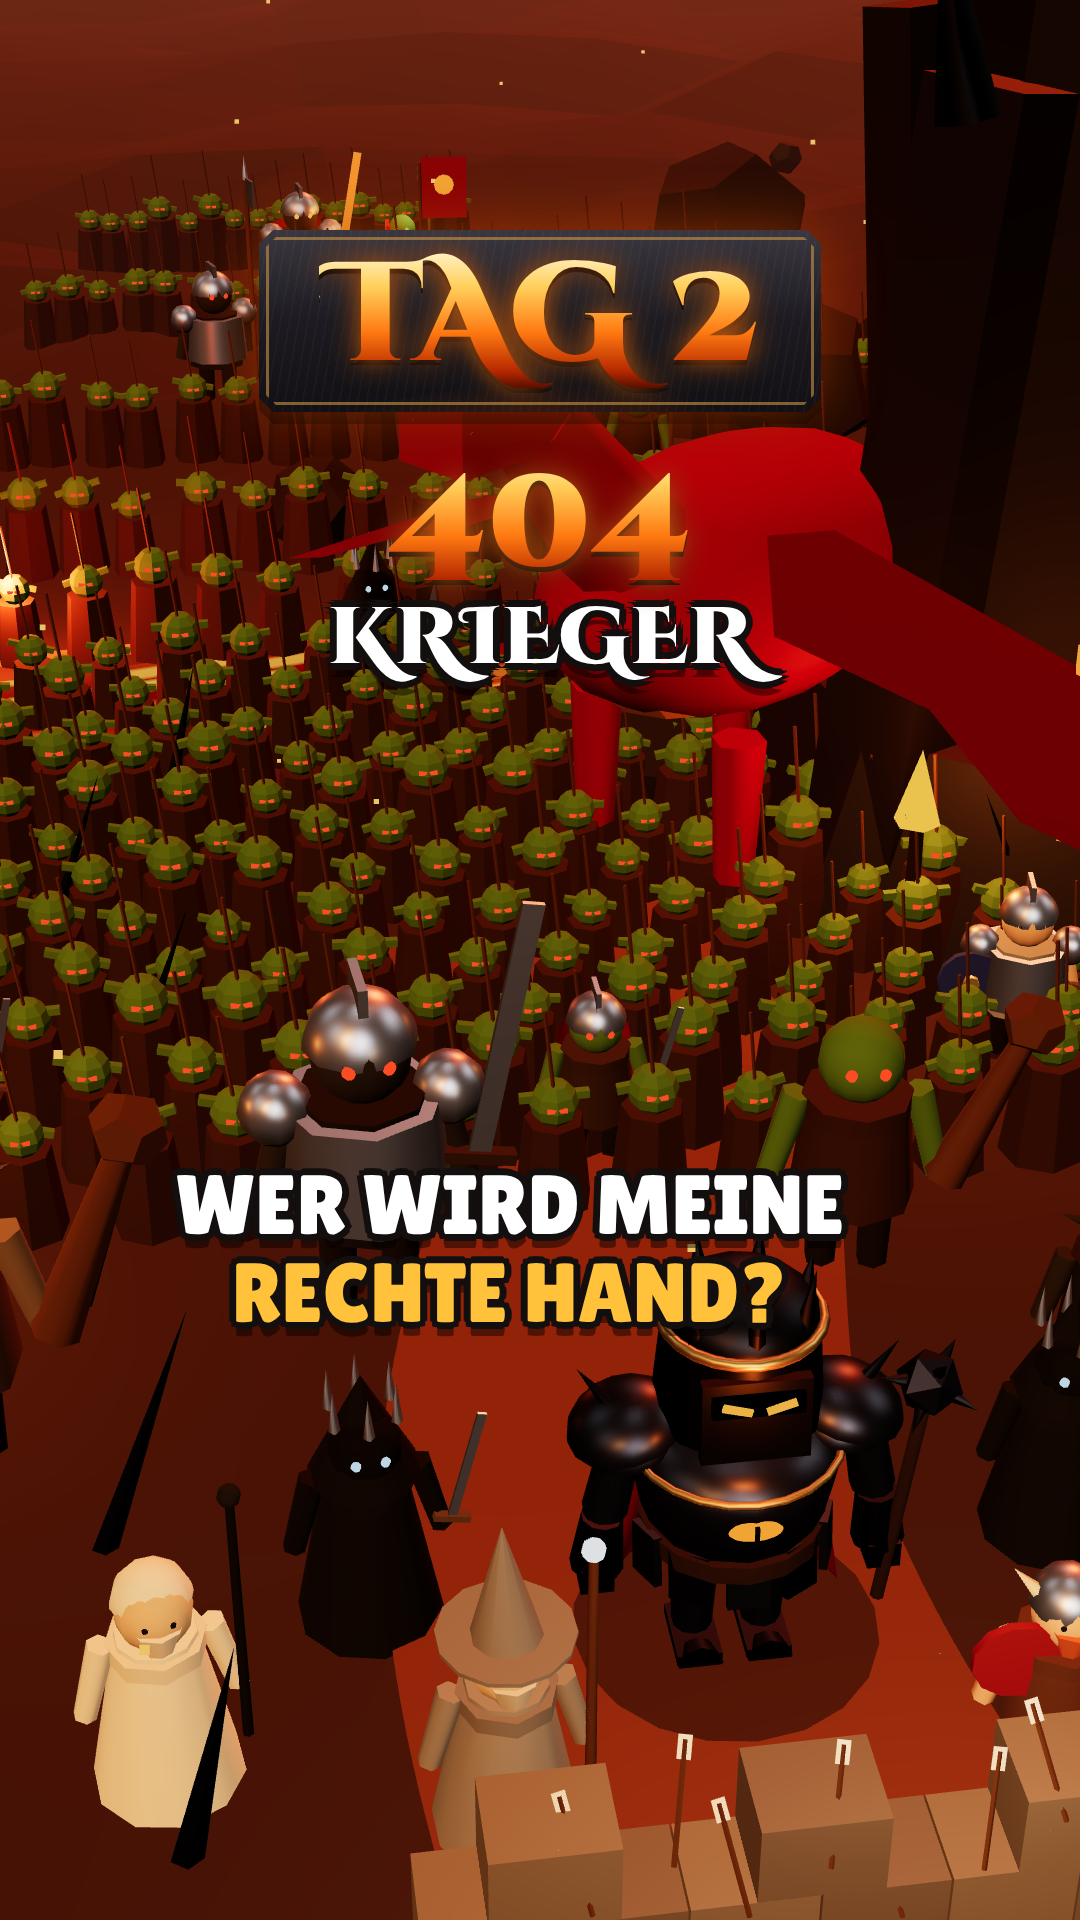
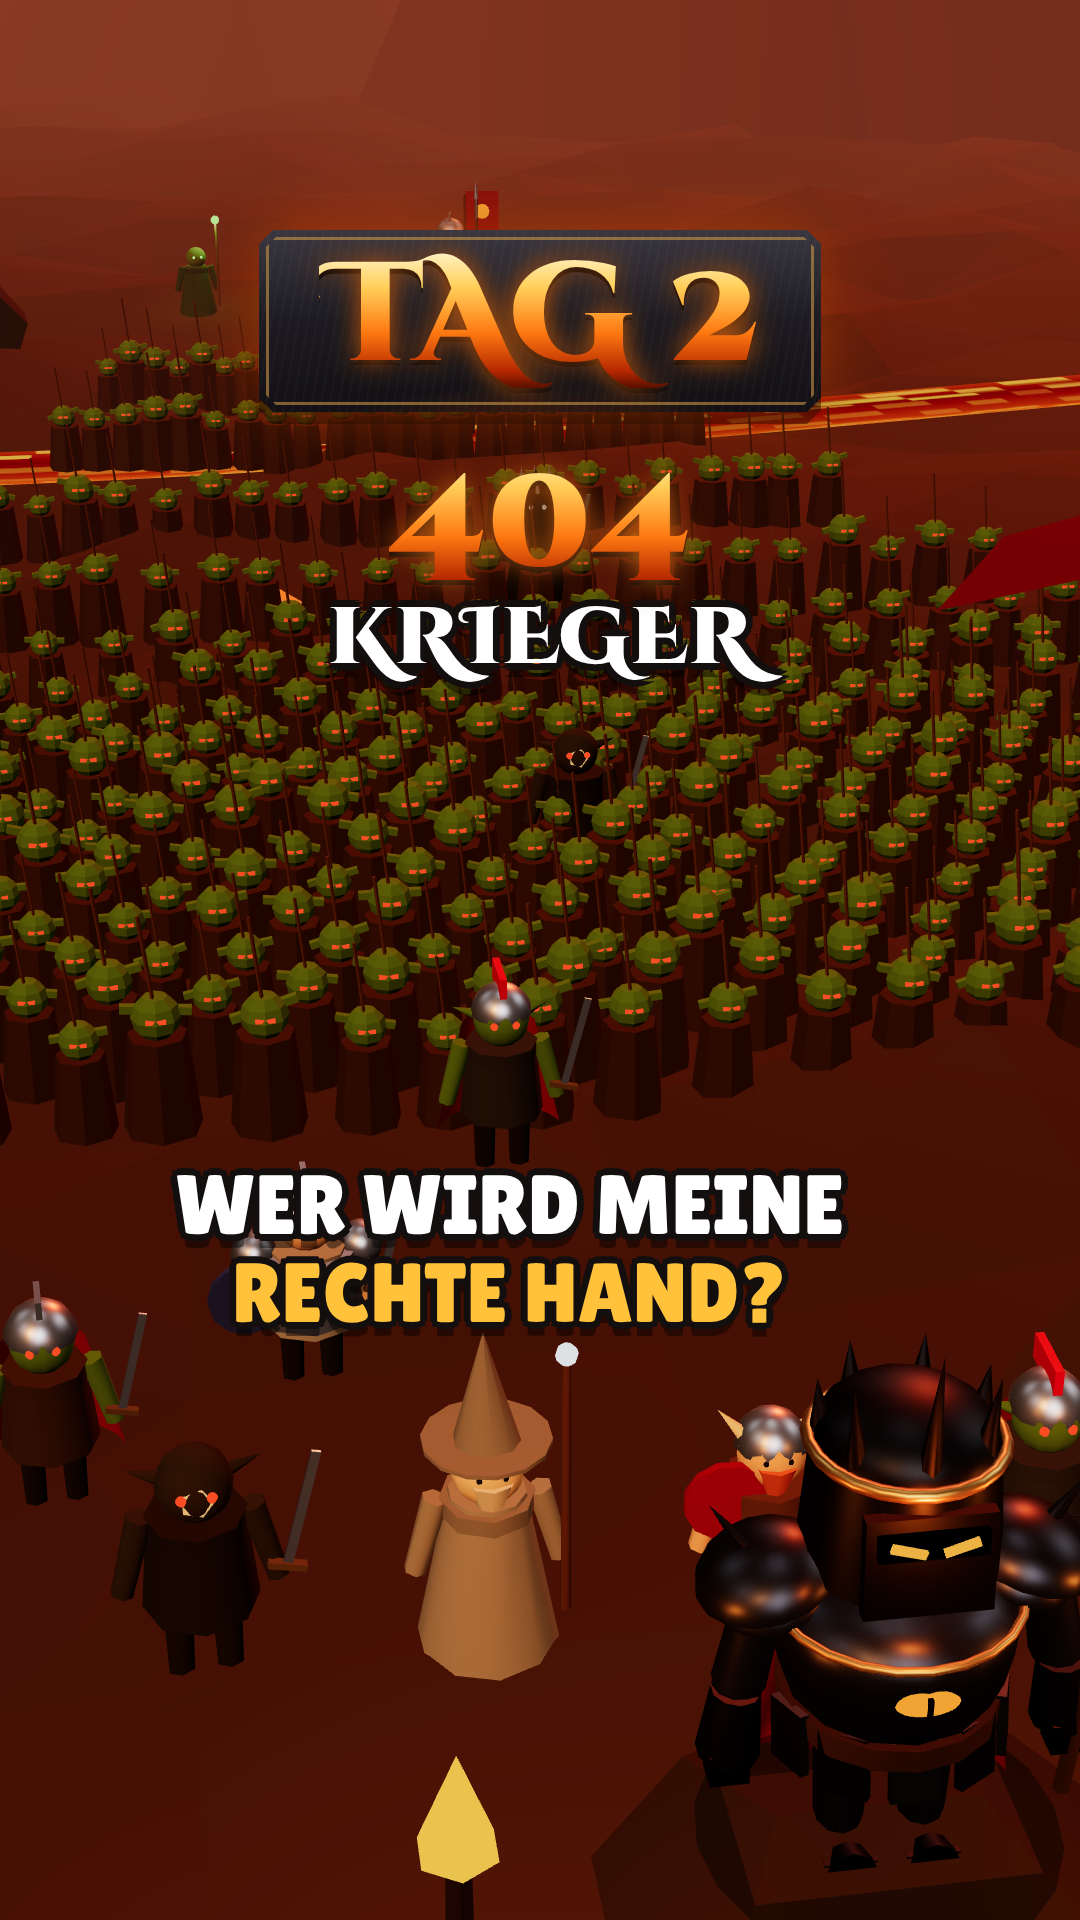
Tag 2 neu gerendert (drei Schauplätze), Thumbnail aktualisiert
Claude-Session: https://claude.ai/code/session_018P2byEHYqSH1WwRmbtpSUq

diff --git a/vorschau-tag2/render.html b/vorschau-tag2/render.html
@@ -456,6 +456,7 @@ const flames = [];
   g.position.set(x, 0, z); scene.add(g);
 });
 
+let sauShadow;
 // ---------- Sauron ----------
 const sau = new THREE.Group(), sauArm = new THREE.Group(), eyesAngry = new THREE.Group(), eyesShock = new THREE.Group();
 const mace = new THREE.Group(), sword = new THREE.Group(), blueprint = new THREE.Group();
@@ -540,7 +541,7 @@ let cape, capeBase;
   for (let i = 0; i < cp.count; i++) { const x = cp.getX(i), y = cp.getY(i), v = (0.725 - y) / 1.45, w = 0.55 + 0.45 * v, a = (x / 0.75) * 1.25; cp.setXYZ(i, Math.sin(a) * 0.55 * w + x * 0.15 * v, y, -Math.cos(a) * 0.38 * w - 0.12 - 0.05 * Math.sin(x * 14) * v); }
   capeBase.set(cp.array); cg.computeVertexNormals();
   cape = new THREE.Mesh(cg, red); cape.position.set(0, 0.73, -0.02); sau.add(cape);
-  const shadow = mesh(new THREE.CircleGeometry(0.75, 20), new THREE.MeshBasicMaterial({ color: 0x000000, transparent: true, opacity: 0.45 }), 0, 0.04, 0); shadow.rotation.x = -Math.PI / 2;
+  sauShadow = mesh(new THREE.CircleGeometry(0.75, 20), new THREE.MeshBasicMaterial({ color: 0x000000, transparent: true, opacity: 0.45 }), 0, 0.04, 0); sauShadow.rotation.x = -Math.PI / 2;
   scene.add(sau);
 }
 
@@ -588,15 +589,44 @@ const elves = new THREE.Group(), elfList = [];
 }
 
 // ---------- day 2 set: the wall stands, new orcs, riders, stall (A) and watchtower (B) ----------
-const wallBlocks = [];
+// zone 2: the great wall (its front faces the elves = local -z); the elves share its frame
+const FRONT = new THREE.Group(); FRONT.position.set(-20, 0, 2); FRONT.rotation.y = Math.PI / 2; scene.add(FRONT); FRONT.updateMatrixWorld(true);
+const FW = (x, y, z) => FRONT.localToWorld(new THREE.Vector3(x, y, z));
+elves.position.copy(FRONT.position); elves.rotation.copy(FRONT.rotation);
+const WZ = -8, WH = 6.2, WL = 12;
 {
-  const stone = std(0x6b6460);
-  for (let i = 0; i < 9; i++) { const row = i < 6 ? 0 : 1, col = row ? (i - 6) * 2 + 0.5 : i; const b = mesh(new THREE.BoxGeometry(0.55, 0.42, 0.45), i % 2 ? stone : std(0x77706a), -1.4 + col * 0.56, 0.21 + row * 0.42, 1.7); wallBlocks.push(b); }
-  const shaft = std(0x5a3a1a), fl = std(0xeeeeee);
-  for (let i = 0; i < 9; i++) {
-    const a = new THREE.Group(); a.position.set(-1.3 + i * 0.33, 0.25 + (i * 37 % 5) * 0.12, 1.95); a.rotation.set(-0.5 - (i % 3) * 0.12, 0, (i % 2 ? 0.2 : -0.2));
-    mesh(new THREE.CylinderGeometry(0.012, 0.012, 0.5, 4), shaft, 0, 0.25, 0, a); mesh(new THREE.BoxGeometry(0.06, 0.1, 0.005), fl, 0, 0.47, 0, a); scene.add(a);
+  const stone = std(0x5e5752), stone2 = std(0x6b6460), dark = std(0x2e2826), shaft = std(0x5a3a1a), fletch = std(0xeeeeee);
+  mesh(new THREE.BoxGeometry(WL * 2, WH, 2.0), stone, 0, WH / 2, WZ, FRONT);
+  for (let y = 0.7; y < WH; y += 0.7) mesh(new THREE.BoxGeometry(WL * 2 + 0.02, 0.05, 2.02), dark, 0, y, WZ, FRONT);
+  for (let x = -WL + 0.4; x <= WL - 0.4; x += 0.9) mesh(new THREE.BoxGeometry(0.55, 0.7, 0.45), stone2, x, WH + 0.35, WZ - 0.78, FRONT);
+  [-6.5, 6.5].forEach(x => {
+    mesh(new THREE.CylinderGeometry(1.9, 2.2, 9.5, 12), stone, x, 4.75, WZ, FRONT);
+    for (let k = 0; k < 10; k++) { const a = k / 10 * Math.PI * 2; mesh(new THREE.BoxGeometry(0.55, 0.65, 0.55), stone2, x + Math.cos(a) * 1.85, 9.8, WZ + Math.sin(a) * 1.85, FRONT); }
+    mesh(new THREE.ConeGeometry(2.3, 3.2, 12), std(0x2a1414), x, 11.7, WZ, FRONT);
+    mesh(new THREE.ConeGeometry(0.1, 1.6, 5), metal(0x1d1c22), x, 13.9, WZ, FRONT);
+    const tl3 = new THREE.PointLight(0xff8a2a, 8, 9); tl3.position.set(x, 7, WZ - 2.6); FRONT.add(tl3);
+    mesh(new THREE.BoxGeometry(0.4, 0.9, 0.05), glow(0xff8a2a), x, 6.6, WZ - 2.05, FRONT); mesh(new THREE.BoxGeometry(0.4, 0.9, 0.05), glow(0xff8a2a), x, 3.6, WZ - 2.15, FRONT);
+  });
+  mesh(new THREE.BoxGeometry(3.2, 3.8, 0.2), std(0x1a100a), 0, 1.9, WZ - 1.01, FRONT);
+  for (let k = 0; k < 7; k++) mesh(new THREE.BoxGeometry(0.09, 3.8, 0.09), metal(0x3a3a40), -1.35 + k * 0.45, 1.9, WZ - 1.12, FRONT);
+  for (let i = 0; i < 110; i++) {
+    const a = new THREE.Group(); a.position.set(-WL + 0.5 + R() * (WL * 2 - 1), 0.4 + R() * (WH - 0.8), WZ - 1.0);
+    a.rotation.set(-Math.PI / 2 + (R() - 0.5) * 0.6, 0, (R() - 0.5) * 0.6);
+    mesh(new THREE.CylinderGeometry(0.014, 0.014, 0.7, 4), shaft, 0, 0.35, 0, a); mesh(new THREE.BoxGeometry(0.07, 0.12, 0.006), fletch, 0, 0.64, 0, a); FRONT.add(a);
   }
+  [-3.4, 3.4].forEach(x => { const b = mesh(new THREE.PlaneGeometry(1.5, 3.4), std(0x6e0c10, { side: THREE.DoubleSide }), x, WH - 2.0, WZ - 1.03, FRONT); b.rotation.y = Math.PI; const e2 = mesh(new THREE.CircleGeometry(0.42, 18), glow(0xff8a1a), x, WH - 1.5, WZ - 1.05, FRONT); e2.rotation.y = Math.PI; });
+}
+const WALL_TOP = FW(0, WH, WZ + 0.25);
+// zone 3: the war camp
+const CAMP = new THREE.Vector3(22, 0, 12);
+const PODIUM = new THREE.Vector3(CAMP.x, 0.5, CAMP.z + 3.6);
+const SAU_HOME = new THREE.Vector3(0, 0, 0);
+{
+  const rock = mesh(new THREE.DodecahedronGeometry(1.0, 0), std(0x2b201c), PODIUM.x, 0.18, PODIUM.z); rock.scale.set(1.2, 0.5, 1.0);
+  const tentM = [std(0x4a2a1a), std(0x3a1414)];
+  [[-9.5, -5], [9.5, -5], [-11.5, 0], [11.5, 0], [-9, -11], [9, -11], [-12, -8], [12, -8]].forEach(([x, z], k) => { const tn = mesh(new THREE.ConeGeometry(1.3, 1.9, 4), tentM[k % 2], CAMP.x + x, 0.95, CAMP.z + z); tn.rotation.y = 0.3 * k; mesh(new THREE.CylinderGeometry(0.03, 0.03, 0.7, 4), std(0x3a2a1a), CAMP.x + x, 2.2, CAMP.z + z); });
+  [[-4.2, 5.2], [4.2, 5.2], [-7.5, -2], [7.5, -2]].forEach(([x, z]) => { mesh(new THREE.CylinderGeometry(0.04, 0.04, 3.2, 5), std(0x2a1a10), CAMP.x + x, 1.6, CAMP.z + z); const fl = mesh(new THREE.PlaneGeometry(0.8, 1.3), std(0x6e0c10, { side: THREE.DoubleSide }), CAMP.x + x + 0.42, 2.6, CAMP.z + z); mesh(new THREE.CircleGeometry(0.2, 14), glow(0xff8a1a), CAMP.x + x + 0.42, 2.7, CAMP.z + z + 0.01); });
+  [[-1.8, 4.4], [1.8, 4.4]].forEach(([x, z]) => { const g = new THREE.Group(); mesh(new THREE.CylinderGeometry(0.05, 0.07, 1.4, 5), std(0x2a1a10), 0, 0.7, 0, g); const f = mesh(new THREE.ConeGeometry(0.16, 0.5, 6), glow(0xffb02a), 0, 1.66, 0, g); flames.push(f); const l = new THREE.PointLight(0xff8a2a, 6, 6); l.position.y = 1.8; g.add(l); f.userData.light = l; g.position.set(CAMP.x + x, 0, CAMP.z + z); scene.add(g); });
 }
 // recruits: one figure per new follower, styled by role
 const orcs = [];
@@ -705,6 +735,18 @@ const orcs = [];
     o.rotation.y = -x * 0.06; o.visible = false; scene.add(o); orcs.push(o);
   });
 }
+{
+  const BIG = new Set(["dragon", "dragon2", "balrog", "troll", "olog", "giant"]);
+  const flank = [[-9.2, -2.6], [9.2, -2.6], [-9.6, -7.6], [9.6, -7.6], [-12.5, -11], [12.5, -11], [-10.5, -14.5], [10.5, -14.5]];
+  let fi = 0, ri = 0;
+  RECRUITS.forEach(([n2, r2, kind], i) => {
+    const o = orcs[i]; if (!o) return; let x, z;
+    if (BIG.has(kind)) { [x, z] = flank[fi++ % flank.length]; } else { const row = Math.floor(ri / 11), col = ri % 11; x = (col - 5) * 1.35 + (row % 2) * 0.6; z = 1.6 - row * 1.3; ri++; }
+    o.userData.slot.set(CAMP.x + x, 0, CAMP.z + z);
+    if (o.userData.dragon) o.userData.start.add(CAMP); else o.userData.start.set(CAMP.x + x * 0.3, 0, CAMP.z - 22 - i * 0.4);
+    o.rotation.y = -x * 0.025;
+  });
+}
 // featured warriors: golden ring + light + name tag
 const FT = [];
 {
@@ -748,7 +790,7 @@ function hordeAt(m, t) {
   const hungry = ramp(m, 11.4, 11.8) - ramp(m, 13.9, 14.3);
   horde.slots.forEach(([x, z, ph, sc], i) => {
     const row = Math.floor(i / 22), t0 = 8.6 + row * 0.12, k = ease(ramp(m, t0, t0 + 1.3));
-    const px = x * (0.4 + 0.6 * k), pz = z - (1 - k) * 14, bob = k < 1 ? Math.abs(Math.sin((m - t0) * 12 + ph)) * 0.06 : 0.01 * Math.sin(t * 4 + ph);
+    const px = CAMP.x + x * (0.4 + 0.6 * k), pz = CAMP.z + z - (1 - k) * 14, bob = k < 1 ? Math.abs(Math.sin((m - t0) * 12 + ph)) * 0.06 : 0.01 * Math.sin(t * 4 + ph);
     const put = (mesh, oy, oz, rx = 0, rz = 0, sx = 1) => { _he.set(rx + 0.3 * hungry * (oy > 0.8 ? 1 : 0), 0, rz); _hq.setFromEuler(_he); _hs.set(sc * sx, sc, sc); _hp.set(px, (oy + bob) * sc, pz + oz * sc); _hm.compose(_hp, _hq, _hs); mesh.setMatrixAt(i, _hm); };
     put(horde.meshes[0], 0.31, 0); put(horde.meshes[1], 0.74, 0.01); put(horde.meshes[2], 0.78, 0, 0, 0.3 * Math.sin(ph)); put(horde.meshes[3], 0.75, 0.05, 0, 0.1); put(horde.meshes[4], 0.76, 0.14);
   });
@@ -769,10 +811,10 @@ const riders = new THREE.Group(), riderList = [];
     mesh(new THREE.SphereGeometry(0.13, 8, 6), iron, 0, 1.97, -0.05, r);
     mesh(new THREE.CylinderGeometry(0.015, 0.015, 1.9, 4), iron, 0.25, 1.9, 0.1, r);
     mesh(new THREE.ConeGeometry(0.07, 0.2, 5), torchM, -0.25, 2.05, 0.05, r);
-    r.userData.base = new THREE.Vector3(-9 + i * 1.3, 0, -15.5 - (i % 2) * 1.2);
+    r.userData.base = new THREE.Vector3(CAMP.x - 4 + i * 1.3, 0, CAMP.z - 19 - (i % 2) * 1.2);
     r.rotation.y = 0.15; riders.add(r); riderList.push(r);
   }
-  const rl = new THREE.PointLight(0xffa040, 0, 18); rl.position.set(-5, 3, -13); riders.add(rl); riders.userData.light = rl;
+  const rl = new THREE.PointLight(0xffa040, 0, 18); rl.position.set(CAMP.x, 3, CAMP.z - 17); riders.add(rl); riders.userData.light = rl;
   scene.add(riders);
 }
 // option A: stall with pigs
@@ -788,7 +830,7 @@ const stall = new THREE.Group();
     const b = mesh(new THREE.SphereGeometry(0.2, 10, 8), pig, 0, 0.25, 0, p); b.scale.set(1, 0.8, 1.3);
     mesh(new THREE.CylinderGeometry(0.06, 0.06, 0.06, 8), std(0xd07070), 0, 0.27, 0.27, p).rotation.x = Math.PI / 2;
     [[-0.08, -0.12], [0.08, -0.12], [-0.08, 0.12], [0.08, 0.12]].forEach(([lx, lz]) => mesh(new THREE.CylinderGeometry(0.03, 0.03, 0.14, 5), pig, lx, 0.07, lz, p)); });
-  stall.position.set(-3.3, 0, 2.9); stall.scale.setScalar(1e-4); scene.add(stall);
+  stall.position.set(CAMP.x - 7.5, 0, CAMP.z + 5.5); stall.scale.setScalar(1e-4); scene.add(stall);
 }
 // option B: watchtower with an archer
 const watch = new THREE.Group();
@@ -803,13 +845,13 @@ const watch = new THREE.Group();
   mesh(new THREE.CylinderGeometry(0.12, 0.15, 0.45, 7), cloth, 0, 2.95, 0.2, watch);
   mesh(new THREE.SphereGeometry(0.11, 8, 6), std(0x4f7a2e), 0, 3.27, 0.2, watch);
   const bow = mesh(new THREE.TorusGeometry(0.22, 0.015, 4, 12, Math.PI), wood, 0.15, 3.0, 0.42, watch); bow.rotation.z = -Math.PI / 2;
-  watch.position.set(3.4, 0, 3.0); watch.scale.setScalar(1e-4); scene.add(watch);
+  watch.position.set(CAMP.x + 7.5, 0, CAMP.z + 5.5); watch.scale.setScalar(1e-4); scene.add(watch);
 }
 // golden question marks over the right-hand candidates
 const goldQ = canvasTex(128, 128, (c, w, h) => { c.font = "bold 110px Georgia"; c.textAlign = "center"; c.textBaseline = "middle"; c.lineWidth = 10; c.strokeStyle = "#2a1200"; c.strokeText("?", w / 2, h / 2 + 6); const g = c.createLinearGradient(0, 10, 0, 118); g.addColorStop(0, "#fff3c0"); g.addColorStop(0.5, "#ffb02a"); g.addColorStop(1, "#c04000"); c.fillStyle = g; c.fillText("?", w / 2, h / 2 + 6); });
 const RH_PICKS = [0, 1, 7, 11, 12].map(i => { const sp = new THREE.Sprite(new THREE.SpriteMaterial({ map: goldQ, depthTest: false, fog: false })); sp.visible = false; sp.renderOrder = 5; scene.add(sp); return { i, sp }; });
 const _box = new THREE.Box3();
-const PLATZ_GHOST = GHOSTS[0]; PLATZ_GHOST.position.set(0.9, 0, -1.7);
+const PLATZ_GHOST = GHOSTS[0]; PLATZ_GHOST.position.set(CAMP.x + 8.6, 0, CAMP.z + 1.6);
 
 // Embers + ash
 const EMB = 160, embBase = new Float32Array(EMB * 4);
@@ -819,42 +861,45 @@ scene.add(new THREE.Points(embGeo, new THREE.PointsMaterial({ color: 0xffb347, s
 
 // ---------- camera path: [time, position, target] ----------
 const E = EYE_WORLD;
+const CP = (x, y, z) => [CAMP.x + x, y, CAMP.z + z];
+const FWa = (x, y, z) => { const v = FW(x, y, z); return [v.x, v.y, v.z]; };
+const SC = (dx, dist, up = 0) => [CP(dx, 2.75 + up, 3.6 + dist), CP(0, 2.45 + up * 0.3, 3.6)];
 const K = [
   [0.0, [E.x - 4.5, E.y - 4.0, E.z + 17.0], [E.x, E.y - 2.0, E.z]],
-  [1.2, [E.x - 3.8, E.y - 4.4, E.z + 14.5], [E.x, E.y - 2.2, E.z]],
-  [2.3, [0.8, 2.4, 8.0], [0, 1.0, 1.5]],
-  [3.9, [-0.6, 2.2, 7.2], [0, 1.0, 1.5]],
-  [4.3, [0.4, 2.0, 5.4], [0, 2.1, 0]],
-  [5.2, [-0.2, 1.95, 5.1], [0, 2.1, 0]],
-  [5.7, [-1.5, 2.6, 8.0], [-4, 2.0, -14]],
-  [6.7, [-1.9, 2.8, 7.6], [-4, 2.0, -14]],
-  [7.1, [0.6, 2.25, 6.6], [0, 1.95, 0]],
-  [8.3, [-0.3, 2.2, 6.3], [0, 1.95, 0]],
-  [8.9, [2.6, 3.0, 8.4], [0, 0.8, -1]],
-  [10.0, [0.5, 4.2, 9.5], [0, 1.2, -1.0]],
-  [10.6, [0.3, 9.5, 9.0], [0, 0.0, -6.5]],
-  [11.2, [-2.6, 9.0, 8.6], [0, 0.0, -6.5]],
-  [11.8, [-0.6, 2.7, 7.8], [0, 0.95, -0.3]],
-  [12.9, [0.6, 2.6, 7.4], [0, 0.95, -0.3]],
-  [13.4, [0.4, 2.5, 6.6], [0, 2.3, 0]],
-  [14.3, [-0.2, 2.5, 6.4], [0, 2.3, 0]],
-  [14.9, [-1.5, 2.6, 8.0], [-4, 2.0, -14]],
-  [16.0, [-1.9, 2.8, 7.6], [-4, 2.0, -14]],
-  [16.6, [0, 4.4, 10.2], [0, 1.0, 0]],
-  [18.9, [1.5, 4.8, 9.8], [0, 1.0, 0]],
-  [19.4, [0.4, 2.25, 6.0], [0, 1.95, 0]],
-  [21.9, [-0.6, 2.2, 5.6], [0, 1.95, 0]],
-  [22.4, [-2.0, 2.4, 8.0], [-3.3, 0.7, 2.9]],
-  [23.6, [-2.8, 2.3, 7.6], [-3.3, 0.7, 2.9]],
-  [24.1, [1.4, 3.6, 12.2], [3.4, 2.0, 3.0]],
-  [26.2, [2.2, 3.6, 11.8], [3.4, 2.0, 3.0]],
-  [27.0, [0, 6.5, 15], [-2, 2.5, -6]],
-  [29.1, [1.2, 7.0, 15.8], [-2, 2.5, -6]]
+  [2.249, [E.x - 3.6, E.y - 4.5, E.z + 14.0], [E.x, E.y - 2.2, E.z]],
+  [2.25, FWa(9.5, 0.9, -27), FWa(0.5, 5.2, -8)],
+  [3.9, FWa(7.0, 1.1, -24), FWa(0.3, 5.6, -8)],
+  [4.3, FWa(1.0, 7.7, -12.6), FWa(0, 7.85, -7.8)],
+  [5.2, FWa(0.5, 7.7, -12.3), FWa(0, 7.85, -7.8)],
+  [5.7, FWa(2.6, 11.5, -6.8), FWa(-2, 0.6, -17)],
+  [6.7, FWa(2.2, 11.8, -6.6), FWa(-2, 0.6, -19)],
+  [7.0, FWa(0.6, 7.6, -12.0), FWa(0, 7.85, -7.8)],
+  [8.349, FWa(0.2, 7.55, -11.6), FWa(0, 7.85, -7.8)],
+  [8.35, CP(0, 4.2, 12), CP(0, 1.2, -2)],
+  [10.0, CP(0.6, 5.5, 12.5), CP(0, 0.8, -4)],
+  [10.6, CP(0.3, 8.5, 11.5), CP(0, 0, -6)],
+  [11.2, CP(-3, 8, 11), CP(0, 0, -6)],
+  [11.8, ...SC(-0.5, 6.5)],
+  [12.9, ...SC(0.5, 6.2)],
+  [13.4, ...SC(0.4, 7.2, 0.3)],
+  [14.3, ...SC(-0.2, 7.0, 0.3)],
+  [14.9, CP(-2, 3.4, 10), CP(0, 2, -19)],
+  [16.0, CP(-2.4, 3.6, 9.6), CP(0, 2, -19)],
+  [16.6, CP(0, 6, 18), CP(0, 1, 0)],
+  [18.9, CP(1.5, 6.5, 17.5), CP(0, 1, 0)],
+  [19.4, ...SC(0.4, 6.2)],
+  [21.9, ...SC(-0.6, 5.8)],
+  [22.4, CP(-5.5, 2.8, 12.5), CP(-7.5, 0.9, 5.5)],
+  [23.6, CP(-6.6, 2.7, 12), CP(-7.5, 0.9, 5.5)],
+  [24.1, CP(5.2, 4.2, 15), CP(7.5, 2.0, 5.5)],
+  [26.2, CP(6.4, 4.2, 14.5), CP(7.5, 2.0, 5.5)],
+  [27.0, CP(0, 9, 23), CP(0, 1, -7)],
+  [29.1, CP(1.5, 9.5, 24), CP(0, 1, -7)]
 ].map(([t, p, q]) => [t, new THREE.Vector3(...p), new THREE.Vector3(...q)]);
 const _p = new THREE.Vector3(), _q = new THREE.Vector3();
 function cameraAt(m, t) {
   let i = 0; while (i < K.length - 2 && m > K[i + 1][0]) i++;
-  const [ta, pa, qa] = K[i], [tb, pb, qb] = K[i + 1], u = ease(ramp(m, ta, tb));
+  const [ta, pa, qa] = K[i], [tb, pb, qb] = K[i + 1], u = tb - ta < 0.005 ? 1 : ease(ramp(m, ta, tb));
   _p.lerpVectors(pa, pb, u); _q.lerpVectors(qa, qb, u);
   _p.x += Math.sin(t * 0.7) * 0.05; _p.y += Math.sin(t * 0.9 + 1) * 0.035;
   camera.position.copy(_p); camera.lookAt(_q);
@@ -886,7 +931,8 @@ function renderAt(t) {
 
   // Sauron: triumph at "gehalten", sag at "null", shock at the riders, scroll for the vote
   const hop = bump(m, 4.5, 0.3, 0.3) + bump(m, 9.4, 0.25, 0.22) + bump(m, 15.45, 0.3, 0.3);
-  sau.position.y = 0.02 * Math.sin(t * 6) + hop;
+  const SP = m < 2.25 ? SAU_HOME : (m < 8.35 ? WALL_TOP : PODIUM), sauYaw = (m >= 2.25 && m < 8.35) ? -Math.PI / 2 : 0;
+  sau.position.set(SP.x, SP.y + 0.02 * Math.sin(t * 6) + hop, SP.z); sauShadow.position.set(SP.x, SP.y + 0.04, SP.z);
   sau.scale.y = 1 - 0.06 * bump(m, 13.75, 0.4, 1);
   const holdsPlan = live(m, 19.1, 21.95);
   sword.visible = false; mace.visible = !holdsPlan; blueprint.visible = holdsPlan;
@@ -919,7 +965,7 @@ function renderAt(t) {
   // elves retreat at dawn
   const elfOn = m < 6.8;
   elves.visible = elfOn; elves.userData.light.intensity = elfOn ? 12 : 0;
-  elfList.forEach((e, i) => { const back = ease(ramp(m, 5.3, 6.8)); e.position.copy(e.userData.base); e.position.z -= back * 10; e.rotation.y = 0.35 + Math.PI * Math.min(1, back * 3); });
+  elfList.forEach((e, i) => { const back = ease(ramp(m, 5.3, 6.8)); e.position.copy(e.userData.base); e.position.z -= back * 4.5; e.rotation.y = 0.35 + Math.PI * Math.min(1, back * 3); });
   // riders appear at night and advance at the end
   const ridOn = live(m, 14.6, 16.2) || m >= 26.4;
   riders.visible = ridOn; riders.userData.light.intensity = ridOn ? 20 : 0;
@@ -935,13 +981,13 @@ function renderAt(t) {
     const shot = k => { const f = FT[k]; _fb.setFromObject(f.o); const c = new THREE.Vector3((_fb.min.x + _fb.max.x) / 2, 0, (_fb.min.z + _fb.max.z) / 2), h = _fb.max.y - _fb.min.y;
       return [new THREE.Vector3(c.x + 0.3 * h, h * 1.5 + 1.6, c.z + 1.5 * h + 2.4), new THREE.Vector3(c.x, h * 0.5, c.z)]; };
     const k = Math.floor((t - RW[0] - 0.4) / seg);
-    if (k < 0 || !FT.length) { const a = -0.6 + u * 1.2; camera.position.set(Math.sin(a) * 9.4, 4.8 - u * 0.6, Math.cos(a) * 9.4 + 0.4); camera.lookAt(0, 1.3, -1.6); }
+    if (k < 0 || !FT.length) { const a = -0.6 + u * 1.2; camera.position.set(CAMP.x + Math.sin(a) * 12, 6.5 - u * 0.8, CAMP.z + Math.cos(a) * 12 + 1.5); camera.lookAt(CAMP.x, 1.3, CAMP.z - 2); }
     else { const kk = Math.min(k, FT.length - 1), [p1, q1] = shot(kk), local = ramp(t - RW[0] - 0.4 - kk * seg, 0, 0.35);
-      let p0, q0; if (kk === 0) { p0 = new THREE.Vector3(Math.sin(-0.6 + 0.2) * 9.4, 4.6, Math.cos(-0.4) * 9.4 + 0.4); q0 = new THREE.Vector3(0, 1.3, -1.6); } else { [p0, q0] = shot(kk - 1); }
+      let p0, q0; if (kk === 0) { p0 = new THREE.Vector3(CAMP.x + Math.sin(-0.4) * 12, 6.3, CAMP.z + Math.cos(-0.4) * 12 + 1.5); q0 = new THREE.Vector3(CAMP.x, 1.3, CAMP.z - 2); } else { [p0, q0] = shot(kk - 1); }
       const e2 = ease(local); camera.position.lerpVectors(p0, p1, e2); _q.lerpVectors(q0, q1, e2); camera.position.x += Math.sin(t * 0.7) * 0.04; camera.lookAt(_q); }
     sau.rotation.z = t >= V.rhWie ? 0.13 * Math.sin((t - V.rhWie) * 3.2) : 0;
-    sau.rotation.y = 0.35 * Math.sin(u * Math.PI * 2);
-  } else { sau.rotation.z = 0; sau.rotation.y = 0; }
+    sau.rotation.y = sauYaw + 0.35 * Math.sin(u * Math.PI * 2);
+  } else { sau.rotation.z = 0; sau.rotation.y = sauYaw; }
   RH_PICKS.forEach(({ i, sp }, k) => {
     const o = orcs[i]; const on = false;
     sp.visible = !!on; if (!on) return;
